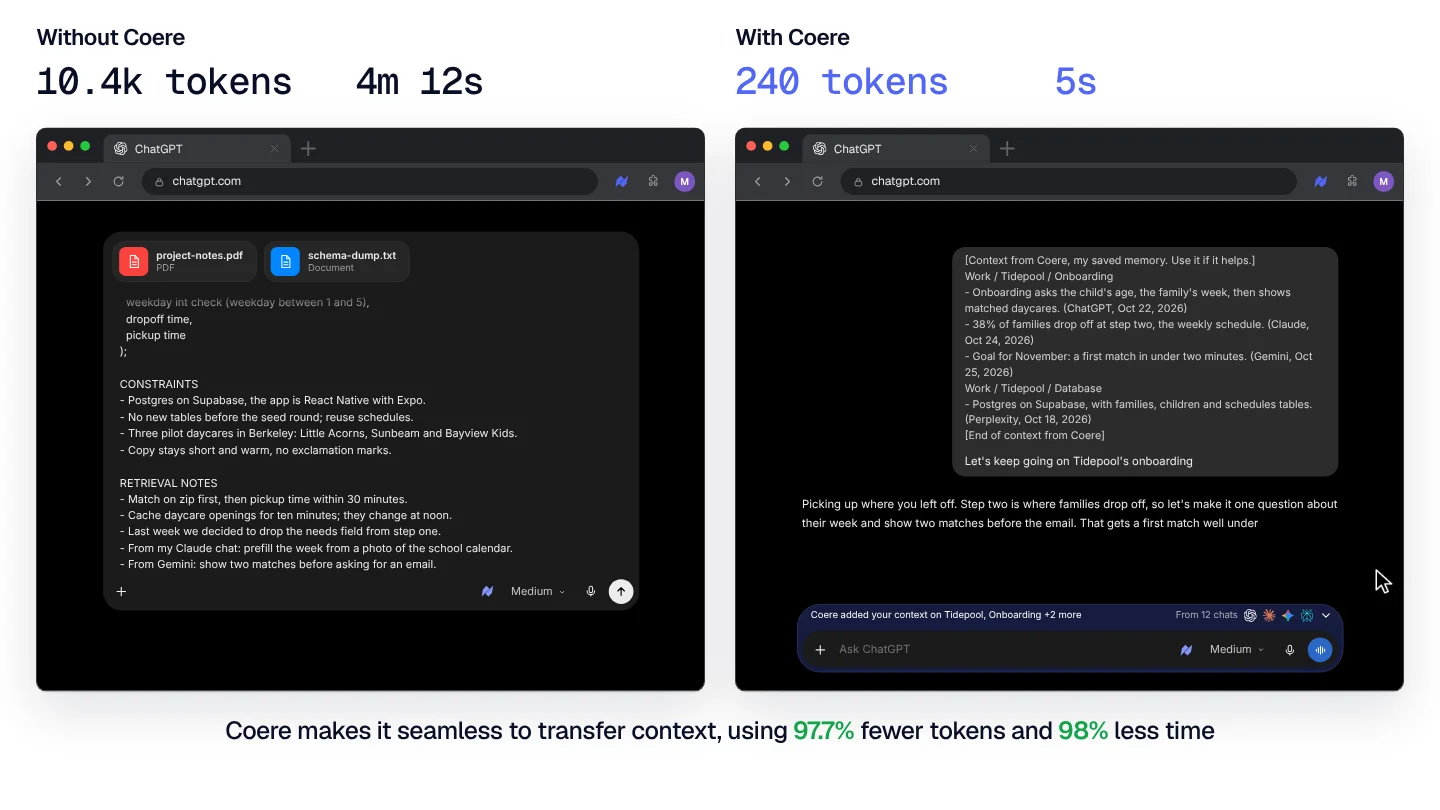
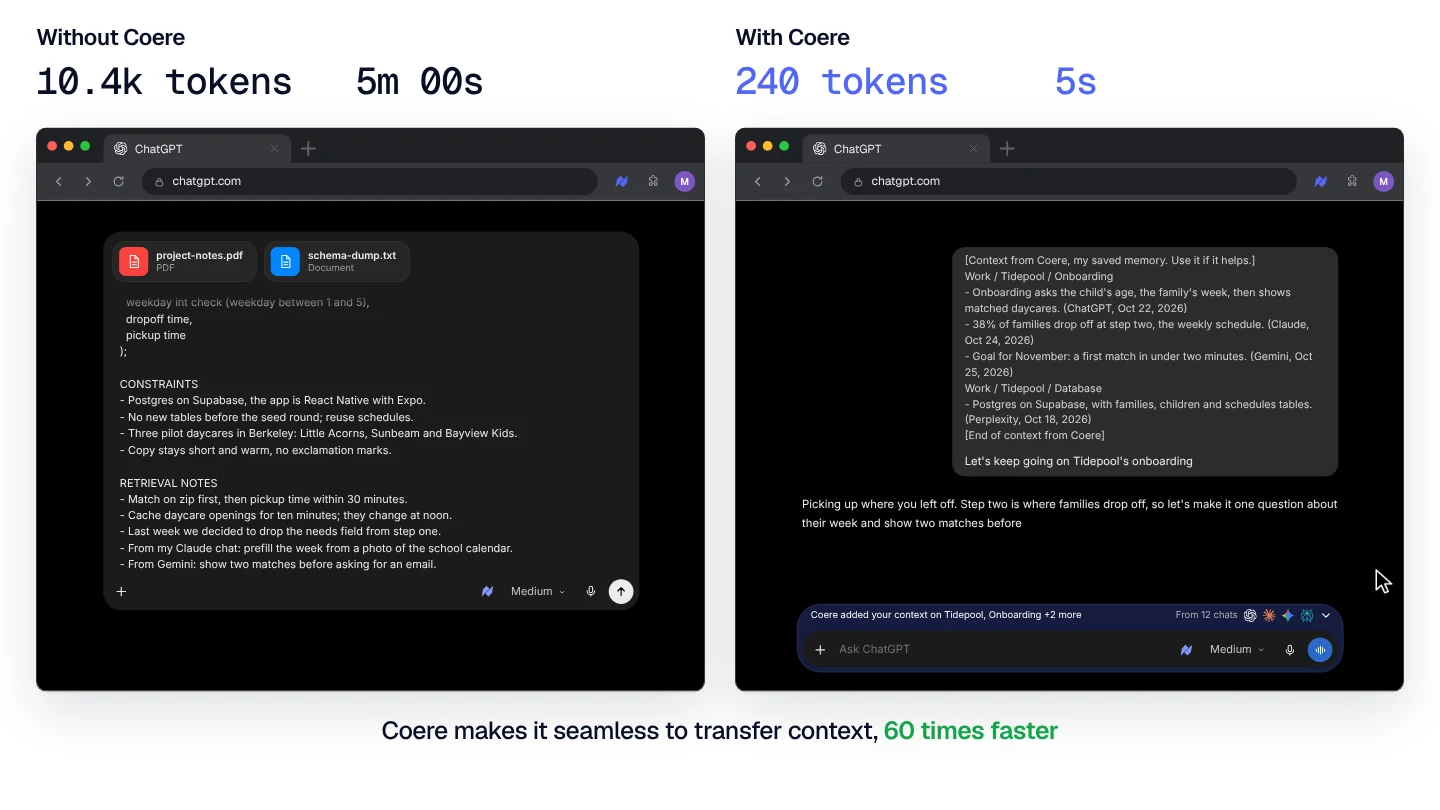
Say the same chat is 60 times faster
The Connect page's comparison now leads with time: 5 minutes by hand against 5 seconds with Coere, 60 times faster. The film's counter ends at 5m 00s, its closing line says 60 times faster, and its poster is retaken. Every language says the same.

Claude-Session: https://claude.ai/code/session_01Ur6uqNCXa3ecJ23BnM9D9o

Changed region(s): [[0.1562, 0.8642, 0.8438, 0.9259], [0.7188, 0.6173, 0.875, 0.6481], [0.25, 0.0617, 0.3438, 0.1235]]

diff --git a/public/preview/live/compare/index.html b/public/preview/live/compare/index.html
@@ -795,7 +795,7 @@ body.playing #pp .i-pause { display: block; }
 `);h(ae);h(ne);var ie="[Context from Coere, my saved memory. Use it if it helps.]",se="[End of context from Coere]",yt=(...t)=>[ie,...t,se].join(`
 `),$d={chats:["*New chat","Payments ledger design","Rate limiter in Go","MATH 54 problem set 2","Cover letter for Lumen","Sourdough starter help","Kyoto in April","Budget for the fall"],draft:"Help me prep for my Stripe onsite on Thursday",line:"Coere will add your context on Stripe application, Payments team +2 more",added:"Coere added your context on Stripe application, Payments team +2 more",meta:"From 9 chats",logos:["chatgpt","claude","gemini"],rows:[{path:"Work / Job search / Stripe application",logos:["chatgpt","claude"],from:"From 3 chats"},{path:"Work / Stripe application / Payments team",logos:["claude"],from:"From 2 chats"},{path:"Projects / System design",logos:["gemini","chatgpt"],from:"From 3 chats"}],also:[{path:"Work / Lumen internship",logos:["chatgpt"],from:"From 2 chats"}],context:yt("Work / Job search / Stripe application","- The Stripe onsite is Thursday, Nov 5, four rounds. (Claude, Oct 27, 2026)","- The payments team owns the ledger. (Claude, Oct 27, 2026)","Projects / System design","- Sharding came up as the weak spot in the mock interview. (Gemini, Oct 20, 2026)"),reply:"Good luck Thursday, Maya. Four rounds, and the payments team owns the ledger, so expect idempotency and retries in system design. Sharding was your weak spot in the mock, so let's start there. Ready for the first question?"},Cd={draft:"Plan my Montreal trip around the wedding weekend",line:"Coere will add who you are, plus 3 memories about Montreal trip",added:"Coere added who you are, plus 3 memories about Montreal trip",meta:"From 7 chats",logos:["gemini","chatgpt","claude"],context:yt("About me","- My name is Maya Collins. I am a CS senior at UC Berkeley.","- I eat vegetarian.","Plans and deadlines / Montreal trip","- Lena's wedding is Saturday, Dec 12 in Old Montreal. (Claude, Oct 2, 2026)","- Budget for the trip is $1,400. (ChatGPT, Oct 9, 2026)"),reply:"The wedding is Saturday, December 12 in Old Montreal, so here is a five night plan from the 10th: walkable, vegetarian friendly and under your $1,400."};var Md={chats:["*New chat","Stripe onsite prep","Payments ledger design","Rate limiter in Go","MATH 54 problem set 2","Cover letter for Lumen","Kyoto in April"],first:{draft:"Yo remember my project SkipDoodle",line:"Coere will add who you are, plus 2 memories about SkipDoodle",meta:"From 4 chats",logos:["chatgpt","claude"],context:yt("About me","- My name is Maya Collins. I am a CS senior at UC Berkeley.","- I like short answers with the code first, and no exclamation marks.","Projects / SkipDoodle","- SkipDoodle is my weekend project, a drawing game for kids. (ChatGPT, Aug 19, 2026)","- It is built with React Native and Expo, and Supabase stores the drawings. (ChatGPT, Aug 19, 2026)"),reply:"Got it. SkipDoodle is your drawing game for kids, built with React Native and Expo, with Supabase storing the drawings. What are you working on today?"},follow:{draft:"How would I make this change",line:"Coere will add who you are and how you like answers",meta:"",logos:[],context:yt("About me","- I like short answers with the code first, and no exclamation marks."),reply:"Add the new screen as its own Expo route, keep the drawing state in one hook so undo stays simple, and save to Supabase only when a drawing is finished."},later:{draft:"Hey remember tech stack for SkipDoodle",line:"Coere will add your context on SkipDoodle and Tech stack",meta:"From 2 chats",logos:["chatgpt"],context:yt("Projects / SkipDoodle / Tech stack","- React Native with Expo, TypeScript, Supabase for auth and storage. (ChatGPT, Aug 19, 2026)","- Drawings save as SVG paths, one row per stroke. (ChatGPT, Sep 3, 2026)"),reply:"Right, the stack is React Native with Expo, TypeScript and Supabase, and drawings save as SVG paths. For export, Expo's image tools are the simplest path."},between:[["How do I add a color picker","Use a small grid of swatches above the canvas, and keep the chosen color in the drawing hook."],["Can strokes fade in when replayed","Yes. Store each stroke with its time and animate its opacity as the replay passes it."],["What about a timer per drawing","Start it on the first stroke and stop it on Done, so idle time never counts."],["Make the undo button bigger for kids","Give it 56 points with a clear icon, and keep it in the same corner on every screen."]]},zd={before:["Lena asked me to be her maid of honor","That's wonderful, Maya. Congratulations to you both. When you're ready, I can help with the toast, the timeline for the day or anything else on your list."],draft:"Write my maid of honor toast for Lena's wedding",line:"Coere will add who you are, plus 3 memories about Lena's wedding",added:"Coere added who you are, plus 5 memories about Lena's wedding",meta:"From 6 chats",metaAfter:"From 9 chats",logos:["claude","chatgpt","gemini"],rows:[{path:"About me",logos:[],from:"From 4 chats"},{path:"Plans and deadlines / Events / Lena's wedding",logos:["claude","chatgpt"],from:"From 3 chats"},{path:"People / Lena Delacroix",logos:["chatgpt"],from:"From 2 chats"}],memQuery:"wedding",memory:{results:[{title:"Lena's wedding",path:"Plans and deadlines / Events",snippet:"Lena's wedding is for Lena Delacroix and Omar Haddad on December 12 in Old Montreal.",logos:["claude","chatgpt"],from:"From 3 chats"},{title:"Wedding toast",path:"Writing style / Speeches",snippet:"Keep the toast under two minutes, warm and a little funny.",logos:["claude"],from:"From 2 chats"},{title:"Montreal trip",path:"Plans and deadlines / Trips",snippet:"Flying in December 10, five nights in Old Montreal.",logos:["gemini","chatgpt"],from:"From 3 chats"},{title:"Omar Haddad",path:"People",snippet:"Omar is Lena's fiance. He proposed in Lisbon last spring.",logos:["claude"],from:"From 1 chat"}],lit:new Set(["Lena's wedding","Wedding toast","Montreal trip","Omar Haddad"]),hiTopics:new Set(["Plans and deadlines","People"]),cam:{x:0,y:120,k:.42}},chatQuery:"elevator",chats:[{ai:"claude",title:"Freshman year stories for the toast",date:"Oct 14, 2026"},{ai:"chatgpt",title:"Elevator pitch for the Stripe recruiter",date:"Sep 30, 2026"}],coriAsk:"add what Lena said she wants in speeches",cori:{added:"People / Lena Delacroix / Speech wishes"},picked:{memory:{path:"Writing style / Speeches / Wedding toast",logos:["claude"],from:"From 2 chats"},chat:{path:"Freshman year stories for the toast",logos:["claude"],from:"Oct 14, 2026",chat:!0},cori:{path:"People / Lena Delacroix / Speech wishes",logos:["chatgpt"],from:"From 1 chat"}},context:yt("About me","- My name is Maya Collins. I am a CS senior at UC Berkeley.","Plans and deadlines / Events / Lena's wedding","- Lena Delacroix and Omar Haddad marry on December 12 in Old Montreal. (Claude, Oct 2, 2026)","Writing style / Speeches / Wedding toast","- Keep the toast under two minutes, warm and a little funny. (Claude, Oct 14, 2026)","People / Lena Delacroix / Speech wishes","- Lena wants no embarrassing stories about exes. (ChatGPT, Oct 20, 2026)","Your chat: Freshman year stories for the toast (Claude, Oct 14, 2026)"),reply:"Here's a toast that runs about ninety seconds. It opens with the night the Unit 2 elevator broke and you two carried a mini fridge up six floors, turns to how Omar fits into that story, and ends with a toast to the two of them."};var Sd={ai:"claude",title:"Toast for Lena and Omar",date:"Oct 29, 2026",messages:"6 messages",size:"3.1 KB",raw:["COERE RAW EXPORT","platform: claude","platform_name: Claude","title: Toast for Lena and Omar","created: 2026-10-29T18:02:11Z","messages: 6","======================================","","[1] USER  lines: 1","Write my maid of honor toast for Lena's wedding","","[2] ASSISTANT  lines: 4","Here's a toast that runs about ninety seconds. It opens with the night the Unit 2 elevator broke..."].join(`
 `)};var ri=(...t)=>[ie,...t,se].join(`
-`),H={hand:{tokens:10400,secs:252},coere:{tokens:240,secs:5},fewer:"97.7%",faster:"98%",files:[{name:"project-notes.pdf",kind:"PDF",tone:"#fa423e",tokens:3100},{name:"schema-dump.txt",kind:"Document",tone:"#0285ff",tokens:2350}],pasted:`Context for Tidepool, so you have everything before we start.
+`),H={hand:{tokens:10400,secs:300},coere:{tokens:240,secs:5},fewer:"97.7%",faster:"60 times",files:[{name:"project-notes.pdf",kind:"PDF",tone:"#fa423e",tokens:3100},{name:"schema-dump.txt",kind:"Document",tone:"#0285ff",tokens:2350}],pasted:`Context for Tidepool, so you have everything before we start.
 
 GOALS
 - Tidepool helps families find after school care that fits their week.
@@ -849,7 +849,7 @@ RETRIEVAL NOTES
 .xf-area { position: absolute; overflow: hidden; -webkit-mask-image: linear-gradient(180deg, transparent, #000 34px); mask-image: linear-gradient(180deg, transparent, #000 34px); }
 .xf-txt { position: absolute; left: 0; right: 0; white-space: pre-wrap; font-size: 15px; line-height: 1.5; color: #ececec; }
 `);var lt={w:892,gap:40,x:48},Je={y:170,h:752},li=1.2,kt=34,pi=520,to=t=>(t>=1e3?`${(t/1e3).toFixed(1)}k`:`${Math.round(t)}`)+" tokens",eo=t=>t<60?`${t}s`:`${Math.floor(t/60)}m ${String(t%60).padStart(2,"0")}s`;function oo(t,e,o){let s=lt.x+e*(lt.w+lt.gap),i=u(`<div class="xf-col${e?" on":""}" style="left:${s}px;top:30px;width:${lt.w}px"><div class="hd">${g(o)}</div>
-    <div class="stats"><span class="tok">0 tokens</span><span class="tm">0s</span></div></div>`);t.appendChild(i);let l=qt(t,{x:s,y:Je.y,w:lt.w,h:Je.h,zoom:li,dark:!0,tabs:[{title:"ChatGPT",icon:G("chatgpt",18,{white:!0}),on:!0}],url:"chatgpt.com"}),a=Jt(l.view,"chatgpt",{compact:!0});return a.greet.querySelectorAll(".cs-greet").forEach(d=>d.style.top=parseFloat(d.style.top)+kt+"px"),a.below&&(a.below.style.top=parseFloat(a.below.style.top)+kt+"px"),a.dock.style.top=a.homeTop+kt+"px",{head:i,tok:C(i,".tok"),tm:C(i,".tm"),win:l,s:a}}function ci(t){let e=u('<div class="abs" style="left:0;right:0;bottom:0;height:50px"></div>');[...t.comp.children].forEach(i=>e.appendChild(i)),t.comp.appendChild(e),t.comp.style.overflow="hidden";let o=u(`<div class="abs" style="left:12px;top:12px;display:flex;gap:10px">${H.files.map(i=>`<div class="xf-file"><span class="ic" style="background:${i.tone}">${A("file",22)}</span><span><b>${g(i.name)}</b><i>${g(i.kind)}</i></span></div>`).join("")}</div>`),s=u('<div class="xf-area" style="left:22px;right:22px;top:80px;bottom:52px"><div class="xf-txt"><span class="v"></span></div></div>');return t.comp.append(o,s),{bar:e,chips:[...o.children],area:s,txt:C(s,".xf-txt"),v:C(s,".v"),tx:C(e,".cs-tx")}}function io(){Ft("transfer",0,t=>{t.style.background="#fff";let e=oo(t,0,"Without Coere"),o=oo(t,1,"With Coere"),s=u(`<div class="xf-line" style="top:952px">Coere makes it seamless to transfer context, using <b>${H.fewer}</b> fewer tokens and <b>${H.faster}</b> less time</div>`);t.appendChild(s);let i=ci(e.s),l=e.s.homeTop+kt,a=Ut(t,{from:[960,1010],at:.3}),d=a.tap(e.s.comp,{at:.45,settle:.1}),x=[d+.4,d+.8],z=x[1]+.45,p=3.6,f=z+p;a.to([960,640],{at:z+.4,dur:.6});let m=H.hand.tokens-H.files.reduce((R,Z)=>R+Z.tokens,0),r=a.tap(o.s.comp,{at:f+.15,settle:.1}),n=Ht(H.draft,r+.2,{cps:17,think:!1}),b=n.time(Math.round(H.draft.length*.3)),w={at:b,text:H.line,meta:H.meta,logos:H.logos},y=Tt(o.s,{lines:[w],shown:[[0,1e9]]});y.update(b+5),a.to(y.chev(0),{at:Math.max(n.end+.15,b+1.3),dur:.5});let $=a.click();y.el.remove(),a.wait(1.35),a.to([1835,760],{at:a.t,dur:.4});let v=a.t+.15,T=Tt(o.s,{lines:[w,{at:v+.05,text:H.added,meta:H.meta,logos:H.logos,reveal:!1}],shown:[[b,1e9]],open:[[$,v]]}),j=Xt(o.s,{rows:H.rows,askBox:!1}),U=te(o.s,n,{focus:r,until:v}),N=ee(o.s,{at:v,words:H.draft,context:H.context,reply:H.reply,wps:14,delay:.45}),K=oe(t,"return",[["return",v-.08,v+.14]],{x:lt.x+lt.w+lt.gap+lt.w/2-114,y:940,lead:.5,tail:.6}),q=v+.95;return{dur:q+2.4,update(R){mt(e.head,R,.1,.5),mt(o.head,R,.25,.5);let Z=50+80*S.out(M(R,x[0],.3))+(pi-130)*S.inout(M(R,z,1));e.s.comp.style.height=Z+"px",e.s.dock.style.height=Z+"px",e.s.dock.style.top=l-(Z-50)*.62+"px",e.s.greet.style.opacity=(1-Y((Z-56)/60)).toFixed(3),e.s.below&&(e.s.below.style.opacity=(1-Y((Z-50)/30)).toFixed(3)),i.chips.forEach((k,F)=>mt(k,R,x[F],.35,10));let Q=M(R,z,p),J=Math.round(H.pasted.length*Q),B=H.files.reduce((k,F,W)=>k+F.tokens*S.out(M(R,x[W],.5)),0)+m*Q;X(i.v,H.pasted.slice(0,J)),V(i.area,R>=z?1:0),R>=z&&(i.txt.style.top=Math.min(0,Z-132-i.txt.offsetHeight)+"px"),V(i.tx,R>=z?0:1),e.s.setDraft("",R>=d&&R<z&&Math.floor((R-d)/.53)%2===0),e.s.comp.classList.toggle("has",R>=x[0]),X(e.tok,to(B)),X(e.tm,eo(Math.floor(H.hand.secs*M(R,d,f-d)+1e-6))),U(R),T.update(R),j.update(R,[[$,v]]),N.update(R);let c=S.inout(M(R,v,.45));o.s.dock.style.top=(o.s.homeTop+kt)*(1-c)+o.s.threadTop*c+"px",o.s.greet.style.opacity=((1-S.out(M(R,$,.25)))*(1-Math.min(1,c*2))).toFixed(3),o.s.greet.style.transform=`translateY(${(-26*S.out(M(R,b,.24))).toFixed(1)}px)`,X(o.tok,to(H.coere.tokens*S.out(M(R,b+.4,.9)))),X(o.tm,eo(Math.floor(H.coere.secs*M(R,r,v-r)+1e-6))),K(R),mt(s,R,q,.6,12),a.update(R)}}})}Nt({title:"Without Coere and with Coere",poster:14,alias:"coereCompare"},()=>{It({overlap:.25,fi:.45,fo:.3}),io()});})();
+    <div class="stats"><span class="tok">0 tokens</span><span class="tm">0s</span></div></div>`);t.appendChild(i);let l=qt(t,{x:s,y:Je.y,w:lt.w,h:Je.h,zoom:li,dark:!0,tabs:[{title:"ChatGPT",icon:G("chatgpt",18,{white:!0}),on:!0}],url:"chatgpt.com"}),a=Jt(l.view,"chatgpt",{compact:!0});return a.greet.querySelectorAll(".cs-greet").forEach(d=>d.style.top=parseFloat(d.style.top)+kt+"px"),a.below&&(a.below.style.top=parseFloat(a.below.style.top)+kt+"px"),a.dock.style.top=a.homeTop+kt+"px",{head:i,tok:C(i,".tok"),tm:C(i,".tm"),win:l,s:a}}function ci(t){let e=u('<div class="abs" style="left:0;right:0;bottom:0;height:50px"></div>');[...t.comp.children].forEach(i=>e.appendChild(i)),t.comp.appendChild(e),t.comp.style.overflow="hidden";let o=u(`<div class="abs" style="left:12px;top:12px;display:flex;gap:10px">${H.files.map(i=>`<div class="xf-file"><span class="ic" style="background:${i.tone}">${A("file",22)}</span><span><b>${g(i.name)}</b><i>${g(i.kind)}</i></span></div>`).join("")}</div>`),s=u('<div class="xf-area" style="left:22px;right:22px;top:80px;bottom:52px"><div class="xf-txt"><span class="v"></span></div></div>');return t.comp.append(o,s),{bar:e,chips:[...o.children],area:s,txt:C(s,".xf-txt"),v:C(s,".v"),tx:C(e,".cs-tx")}}function io(){Ft("transfer",0,t=>{t.style.background="#fff";let e=oo(t,0,"Without Coere"),o=oo(t,1,"With Coere"),s=u(`<div class="xf-line" style="top:952px">Coere makes it seamless to transfer context, <b>60 times faster</b></div>`);t.appendChild(s);let i=ci(e.s),l=e.s.homeTop+kt,a=Ut(t,{from:[960,1010],at:.3}),d=a.tap(e.s.comp,{at:.45,settle:.1}),x=[d+.4,d+.8],z=x[1]+.45,p=3.6,f=z+p;a.to([960,640],{at:z+.4,dur:.6});let m=H.hand.tokens-H.files.reduce((R,Z)=>R+Z.tokens,0),r=a.tap(o.s.comp,{at:f+.15,settle:.1}),n=Ht(H.draft,r+.2,{cps:17,think:!1}),b=n.time(Math.round(H.draft.length*.3)),w={at:b,text:H.line,meta:H.meta,logos:H.logos},y=Tt(o.s,{lines:[w],shown:[[0,1e9]]});y.update(b+5),a.to(y.chev(0),{at:Math.max(n.end+.15,b+1.3),dur:.5});let $=a.click();y.el.remove(),a.wait(1.35),a.to([1835,760],{at:a.t,dur:.4});let v=a.t+.15,T=Tt(o.s,{lines:[w,{at:v+.05,text:H.added,meta:H.meta,logos:H.logos,reveal:!1}],shown:[[b,1e9]],open:[[$,v]]}),j=Xt(o.s,{rows:H.rows,askBox:!1}),U=te(o.s,n,{focus:r,until:v}),N=ee(o.s,{at:v,words:H.draft,context:H.context,reply:H.reply,wps:14,delay:.45}),K=oe(t,"return",[["return",v-.08,v+.14]],{x:lt.x+lt.w+lt.gap+lt.w/2-114,y:940,lead:.5,tail:.6}),q=v+.95;return{dur:q+2.4,update(R){mt(e.head,R,.1,.5),mt(o.head,R,.25,.5);let Z=50+80*S.out(M(R,x[0],.3))+(pi-130)*S.inout(M(R,z,1));e.s.comp.style.height=Z+"px",e.s.dock.style.height=Z+"px",e.s.dock.style.top=l-(Z-50)*.62+"px",e.s.greet.style.opacity=(1-Y((Z-56)/60)).toFixed(3),e.s.below&&(e.s.below.style.opacity=(1-Y((Z-50)/30)).toFixed(3)),i.chips.forEach((k,F)=>mt(k,R,x[F],.35,10));let Q=M(R,z,p),J=Math.round(H.pasted.length*Q),B=H.files.reduce((k,F,W)=>k+F.tokens*S.out(M(R,x[W],.5)),0)+m*Q;X(i.v,H.pasted.slice(0,J)),V(i.area,R>=z?1:0),R>=z&&(i.txt.style.top=Math.min(0,Z-132-i.txt.offsetHeight)+"px"),V(i.tx,R>=z?0:1),e.s.setDraft("",R>=d&&R<z&&Math.floor((R-d)/.53)%2===0),e.s.comp.classList.toggle("has",R>=x[0]),X(e.tok,to(B)),X(e.tm,eo(Math.floor(H.hand.secs*M(R,d,f-d)+1e-6))),U(R),T.update(R),j.update(R,[[$,v]]),N.update(R);let c=S.inout(M(R,v,.45));o.s.dock.style.top=(o.s.homeTop+kt)*(1-c)+o.s.threadTop*c+"px",o.s.greet.style.opacity=((1-S.out(M(R,$,.25)))*(1-Math.min(1,c*2))).toFixed(3),o.s.greet.style.transform=`translateY(${(-26*S.out(M(R,b,.24))).toFixed(1)}px)`,X(o.tok,to(H.coere.tokens*S.out(M(R,b+.4,.9)))),X(o.tm,eo(Math.floor(H.coere.secs*M(R,r,v-r)+1e-6))),K(R),mt(s,R,q,.6,12),a.update(R)}}})}Nt({title:"Without Coere and with Coere",poster:14,alias:"coereCompare"},()=>{It({overlap:.25,fi:.45,fo:.3}),io()});})();
 </script>
 <script>
 /* On the Coere site: play at once with no controls, rest on the result, then start again. */

diff --git a/src/site/i18n/messages/ja/product-pages.ts b/src/site/i18n/messages/ja/product-pages.ts
@@ -53,9 +53,9 @@ export const productPages: Messages["productPages"] = {
       },
     ],
     compare: {
-      title: "同じチャットで、トークンを97.7%削減",
+      title: "同じチャットが、60倍速く",
       line: "Coereがなければ、新しいチャットのたびにファイルやメモを貼り付けます。Coereがあれば、プロジェクト名を伝えるだけで、ふさわしいコンテキストが入ります。",
-      label: "Coereなし：1万400トークン、4分12秒。Coereあり：240トークン、5秒。",
+      label: "Coereなし：1万400トークン、5分。Coereあり：240トークン、5秒。",
     },
     everything: "Coere Connectのすべて",
     grid: [

diff --git a/src/site/i18n/messages/fr/product-pages.ts b/src/site/i18n/messages/fr/product-pages.ts
@@ -53,9 +53,9 @@ export const productPages: Messages["productPages"] = {
       },
     ],
     compare: {
-      title: "La même conversation, 97,7 % de tokens en moins",
+      title: "La même conversation, 60 fois plus vite",
       line: "Sans Coere, vous collez fichiers et notes dans chaque nouvelle conversation. Avec Coere, vous nommez le projet et le bon contexte s’ajoute pour vous.",
-      label: "Sans Coere : 10 400 tokens et 4 minutes 12 secondes. Avec Coere : 240 tokens et 5 secondes.",
+      label: "Sans Coere : 10 400 tokens et 5 minutes. Avec Coere : 240 tokens et 5 secondes.",
     },
     everything: "Tout ce que fait Coere Connect",
     grid: [

diff --git a/src/site/i18n/messages/es/product-pages.ts b/src/site/i18n/messages/es/product-pages.ts
@@ -53,9 +53,9 @@ export const productPages: Messages["productPages"] = {
       },
     ],
     compare: {
-      title: "El mismo chat, con un 97,7 % menos de tokens",
+      title: "El mismo chat, 60 veces más rápido",
       line: "Sin Coere, pegas archivos y notas en cada chat nuevo. Con Coere, nombras el proyecto y el contexto adecuado entra por ti.",
-      label: "Sin Coere: 10.400 tokens y 4 minutos y 12 segundos. Con Coere: 240 tokens y 5 segundos.",
+      label: "Sin Coere: 10.400 tokens y 5 minutos. Con Coere: 240 tokens y 5 segundos.",
     },
     everything: "Todo lo que incluye Coere Connect",
     grid: [

diff --git a/src/site/i18n/messages/nl/product-pages.ts b/src/site/i18n/messages/nl/product-pages.ts
@@ -53,9 +53,9 @@ export const productPages: Messages["productPages"] = {
       },
     ],
     compare: {
-      title: "Dezelfde chat, 97,7% minder tokens",
+      title: "Dezelfde chat, 60 keer sneller",
       line: "Zonder Coere plak je bestanden en notities in elke nieuwe chat. Met Coere noem je het project en gaat de juiste context vanzelf mee.",
-      label: "Zonder Coere: 10.400 tokens en 4 minuten 12 seconden. Met Coere: 240 tokens en 5 seconden.",
+      label: "Zonder Coere: 10.400 tokens en 5 minuten. Met Coere: 240 tokens en 5 seconden.",
     },
     everything: "Alles in Coere Connect",
     grid: [

diff --git a/src/site/i18n/messages/en/product-pages.ts b/src/site/i18n/messages/en/product-pages.ts
@@ -57,9 +57,9 @@ export const productPages = {
       },
     ],
     compare: {
-      title: "The same chat, 97.7% fewer tokens",
+      title: "The same chat, 60 times faster",
       line: "Without Coere, you paste files and notes into every new chat. With Coere, you name the project and the right context goes in for you.",
-      label: "Without Coere: 10.4k tokens and 4 minutes 12 seconds. With Coere: 240 tokens and 5 seconds.",
+      label: "Without Coere: 10.4k tokens and 5 minutes. With Coere: 240 tokens and 5 seconds.",
     },
     everything: "Everything in Coere Connect",
     grid: [

diff --git a/docs/screenshots/site/README.md b/docs/screenshots/site/README.md
@@ -37,7 +37,7 @@ English stays at its addresses; Spanish, French, Dutch and Japanese live under /
 
 | | |
 |---|---|
-| <img src="product-connect.webp" alt="The Coere Connect page from its hero down: Your memory, across every AI on near black, with flowing bands of Coere blue and white drawn in small dithered square pixels behind the live app, then, dark to the footer, features by tab, the same chat with 97.7% fewer tokens, everything in Coere Connect, why people choose it and the other products" /><br /><sub>Coere Connect, dark to its end like its hero</sub> | <img src="product-solutions.webp" alt="The Coere Solutions page from its hero down: the hero on a dark LED wall of AI logos drawn in small square pixels round the dashboard, with the beam washing over its top edge, then, dark to the footer, how a team shares one memory, the AIs it works with, everything in Coere Solutions and the other products" /><br /><sub>Coere Solutions, dark to its end like its hero</sub> |
+| <img src="product-connect.webp" alt="The Coere Connect page from its hero down: Your memory, across every AI on near black, with flowing bands of Coere blue and white drawn in small dithered square pixels behind the live app, then, dark to the footer, features by tab, the same chat 60 times faster, everything in Coere Connect, why people choose it and the other products" /><br /><sub>Coere Connect, dark to its end like its hero</sub> | <img src="product-solutions.webp" alt="The Coere Solutions page from its hero down: the hero on a dark LED wall of AI logos drawn in small square pixels round the dashboard, with the beam washing over its top edge, then, dark to the footer, how a team shares one memory, the AIs it works with, everything in Coere Solutions and the other products" /><br /><sub>Coere Solutions, dark to its end like its hero</sub> |
 | <img src="product-forge.webp" alt="The Coere Forge page from its hero down: The memory API for your apps and agents on a full field of blue and white ASCII glyphs over near black, with a beam of Coere blue landing on the code, then, dark to the footer, the demo end to end, MCP, everything in Coere Forge and the other products" /><br /><sub>Coere Forge, dark to its end</sub> | <img src="product-agents.webp" alt="The Coere Agents page from its hero down: One worker, infinite possibilities on near black, with diagonal streaks of white light edged in Coere blue flowing behind a white app window that plays each part of Coere Agents live in turn under a row of tabs, then, dark to the footer, the capabilities, the agents as dark glass cards and the other products" /><br /><sub>Coere Agents, dark to its end</sub> |
 | <img src="phone-product-connect.webp" width="195" alt="The Coere Connect page's first screen at phone width, on its dithered bands of Coere blue and white" /><br /><sub>Coere Connect at 390 wide</sub> | |
 
